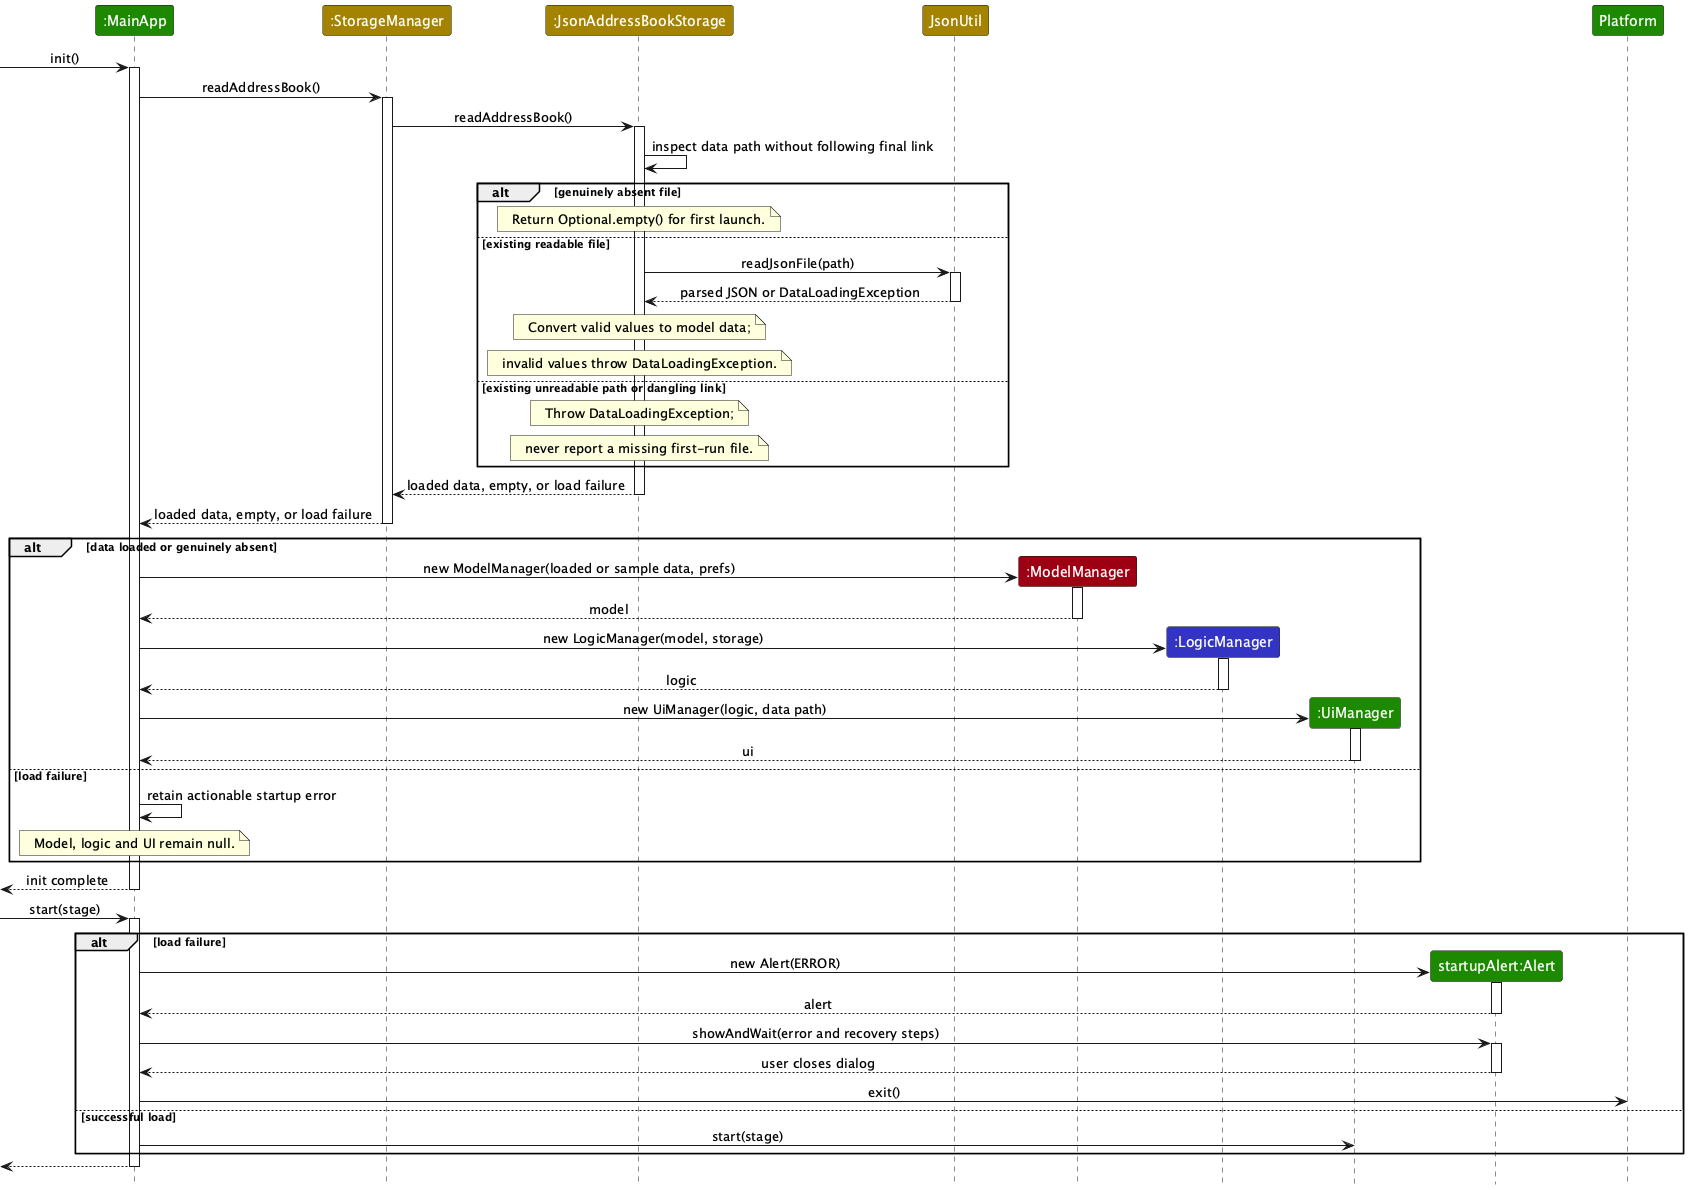
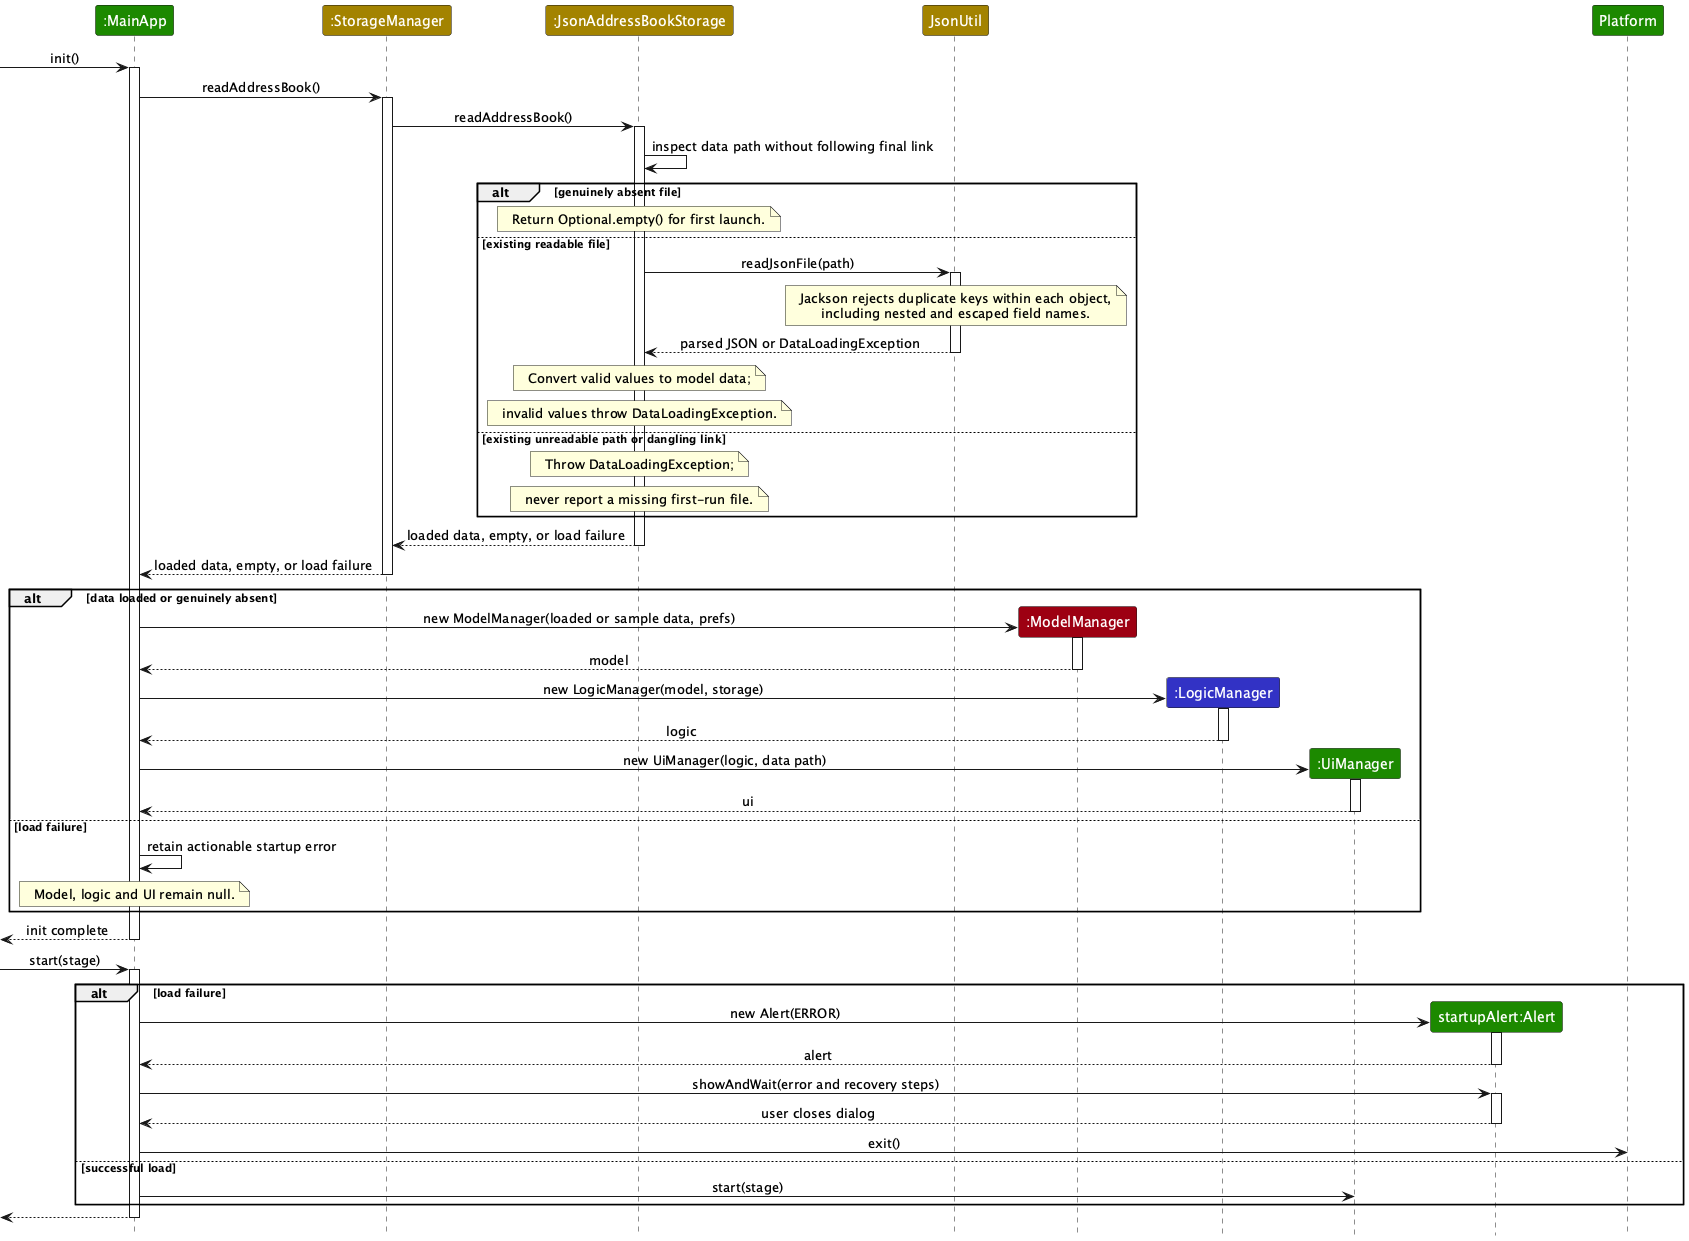
Document duplicate-key startup protection
Explain how duplicate keys block participant loading without rewriting
the original file, and describe backup and reconciliation steps.

Document the shared parser boundary and preference fallback, add a
manual regression scenario, and render the matching startup UML.

diff --git a/docs/DeveloperGuide.md b/docs/DeveloperGuide.md
@@ -197,6 +197,15 @@ dangling final symbolic link produces `DataLoadingException` instead. The extra 
 entries with `IllegalValueException`; storage translates that checked validation failure to `DataLoadingException`
 without masking unrelated runtime errors during model conversion.
 
+The shared `JsonUtil` mapper enables Jackson's `JsonParser.Feature.STRICT_DUPLICATE_DETECTION`. Repeated field
+names within the same object throw a parsing exception before model construction, including duplicate `persons`
+arrays, nested participant fields, ignored fields and equivalent escaped key names. Jackson compares decoded field
+names per object, so different participants can each have a `name` field. Unknown fields with unique names remain
+ignored, and missing optional fields retain their legacy defaults. `readJsonFile` wraps the parsing failure in
+`DataLoadingException`; neither the read nor the startup blocker repairs or rewrites participant data.
+This shared parsing rule also rejects duplicate keys in preferences. The existing `initPrefs` fallback still uses
+and saves default preferences on a load failure; participant-file preservation is not a preference-file guarantee.
+
 On a load failure, `MainApp` retains an actionable error containing the absolute data path and does not construct
 `ModelManager`, `LogicManager` or `UiManager`. Its `start` method shows an error dialog, then exits when the user
 closes it. The participant file is not modified, and `stop` skips preference saving when initialization did not
@@ -205,6 +214,11 @@ correct the input or restore a known-good copy before restarting.
 Read failures log the file path and exception type, not the malformed JSON or participant values.
 
 ![Participant startup and load failure](images/StartupDataSequenceDiagram.png)
+
+`JsonAddressBookStorageTest` exercises duplicate arrays, matching empty arrays, escaped key names and nested remark
+fields with byte-for-byte preservation checks. `JsonUtilTest` covers known and ignored duplicate fields, while
+`MainAppTest` verifies repeated startup attempts leave model, logic and UI unavailable and skip shutdown saving.
+Existing legacy, empty-directory, multi-participant and full-field persistence tests remain compatibility controls.
 
 ### Common classes
 
@@ -1055,3 +1069,16 @@ value (for example, an invalid phone number) and with a directory at the data-fi
 afterward. Permission failures vary by OS; the automated startup tests inject a deterministic read failure and verify
 the same blocked behavior without relying on `chmod`.
 Automated tests also cover a top-level JSON `null`, null person and tag entries, and unchanged file bytes.
+
+Repeat the disposable-file test with the following ambiguous JSON. The second `persons` array must not silently
+replace the first; both startup attempts must fail without changing the file or opening an editable directory:
+
+```json
+{"persons":[{"name":"Alice","phone":"81234567","email":"alice@example.com",
+  "address":"Kent Ridge","tags":[]}],"persons":[]}
+```
+
+Back up the ambiguous file before repairing it. In this disposable example, keep Alice in a single `persons` array,
+restart and confirm `list` shows Alice. Also check that a valid `{"persons":[]}` still opens an empty directory and
+that distinct participant objects can each contain the same field names. These controls distinguish duplicate keys
+inside one object from ordinary repeated field names across participants.

diff --git a/docs/UserGuide.md b/docs/UserGuide.md
@@ -610,6 +610,11 @@ ZoomAddress shows a startup error instead of opening an editable empty directory
 path and explains how to recover. ZoomAddress does not change the participant file on a failed start. Back up the
 file first, then correct the JSON or read permissions, or restore a known-good copy before restarting. Do not run
 commands against an assumed empty directory or delete the original file as a recovery step.<br>
+Each JSON object must have unique field names. For example, `{"persons":[],"persons":[]}` is rejected even though
+the arrays match; repeating a field inside a participant is also rejected. ZoomAddress does not choose the first or
+last value. If a manual edit or merge introduces duplicate keys, back up the original file, then reconcile the
+records into one `persons` array (and one value per participant field), or restore a known-good copy. Restart only
+after the ambiguity is resolved; a failed start leaves the original participant file unchanged.<br>
 If the data file is genuinely absent on first launch, ZoomAddress still opens with sample participants. Editing JSON
 directly can also cause unexpected behavior when values fall outside the supported range; edit it only if you are
 confident you can restore a valid copy.
